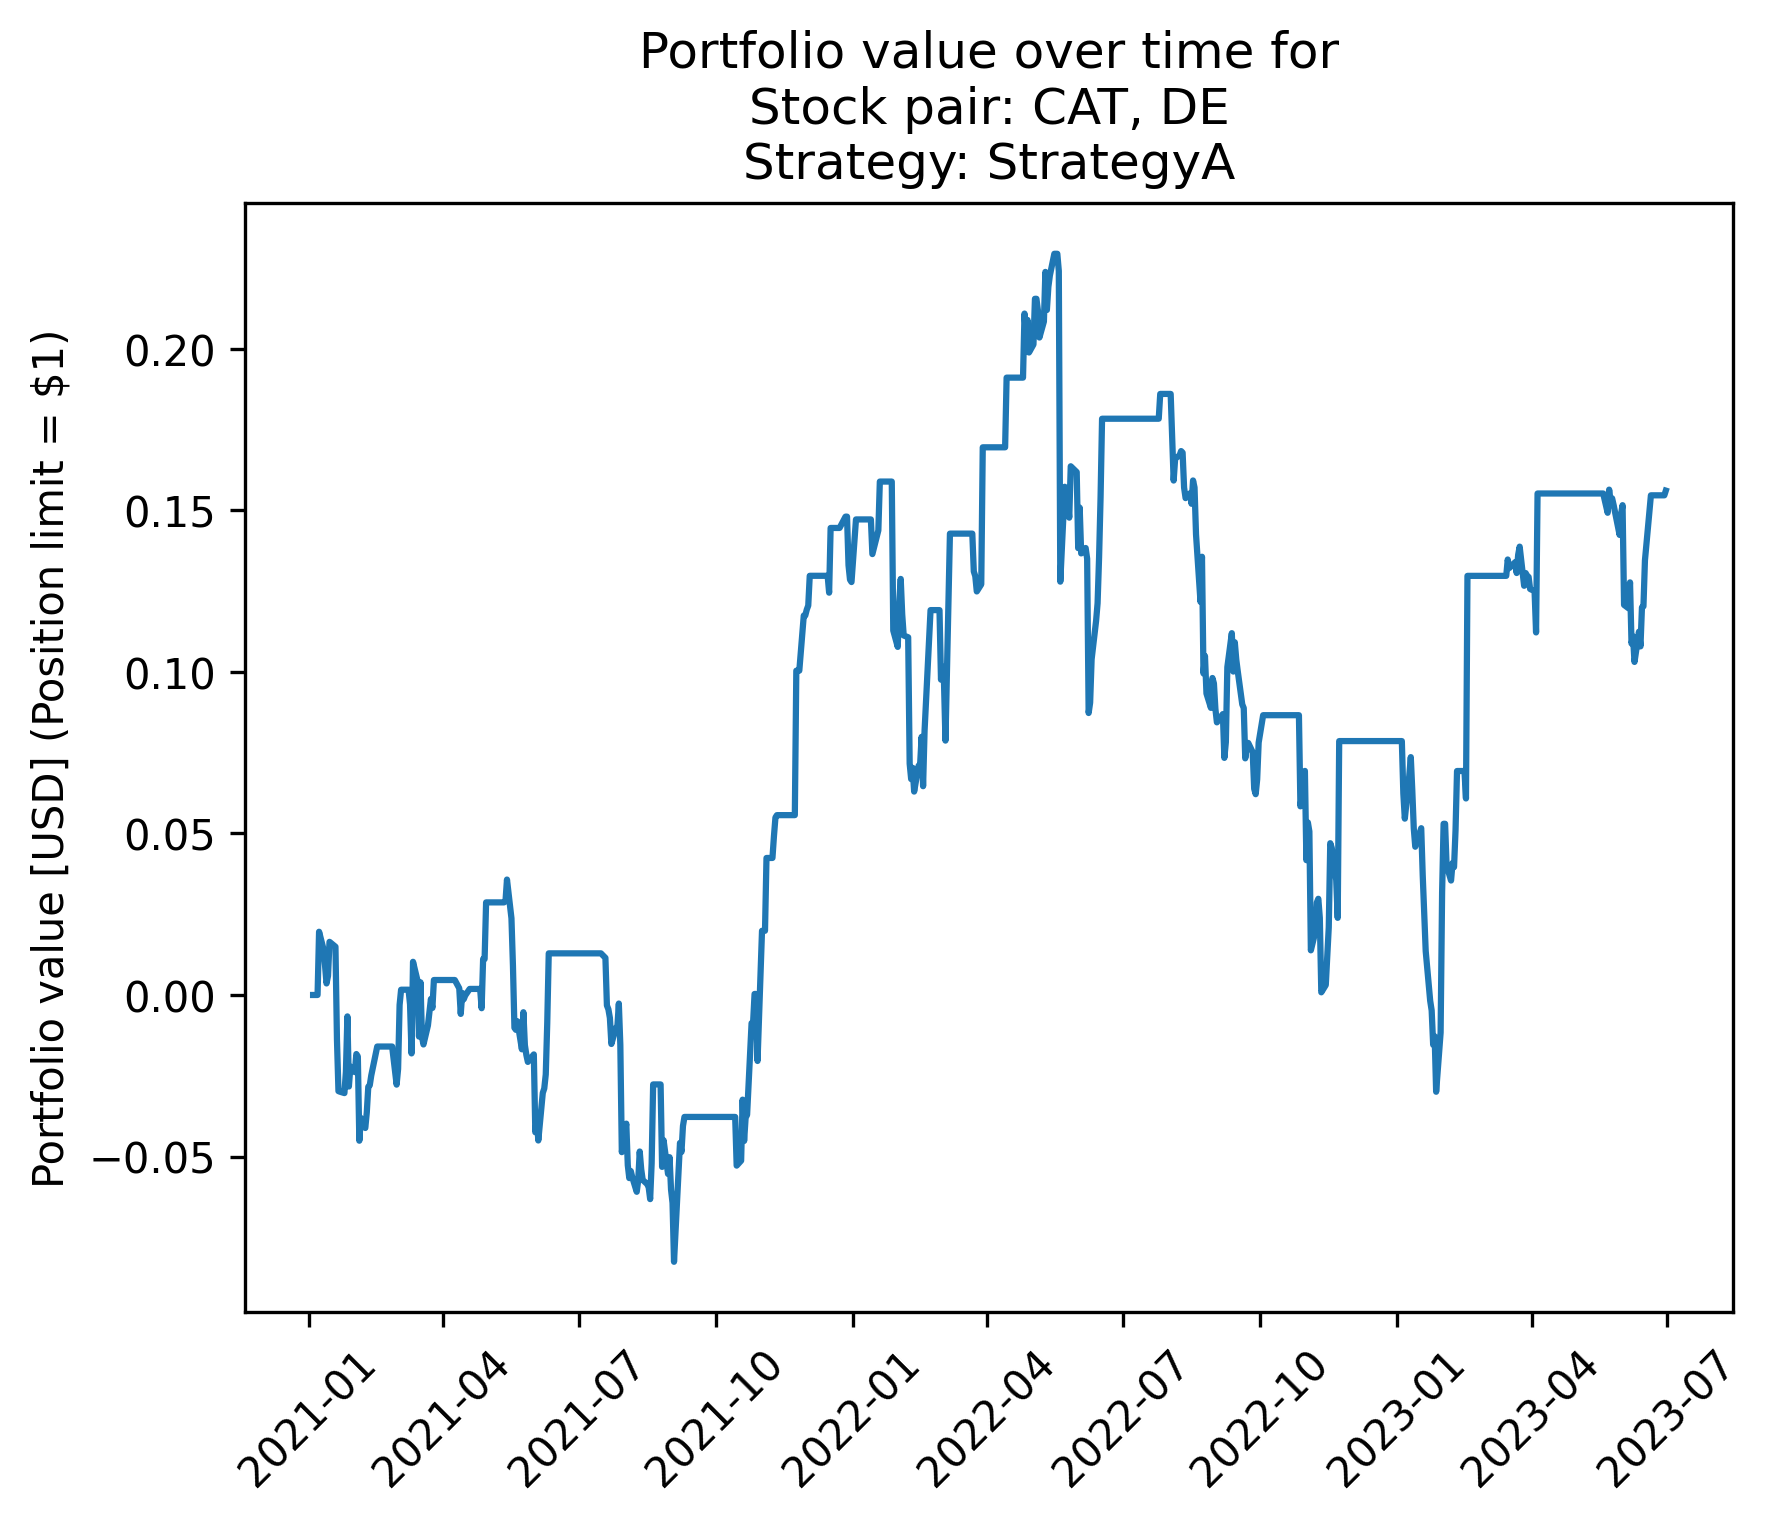
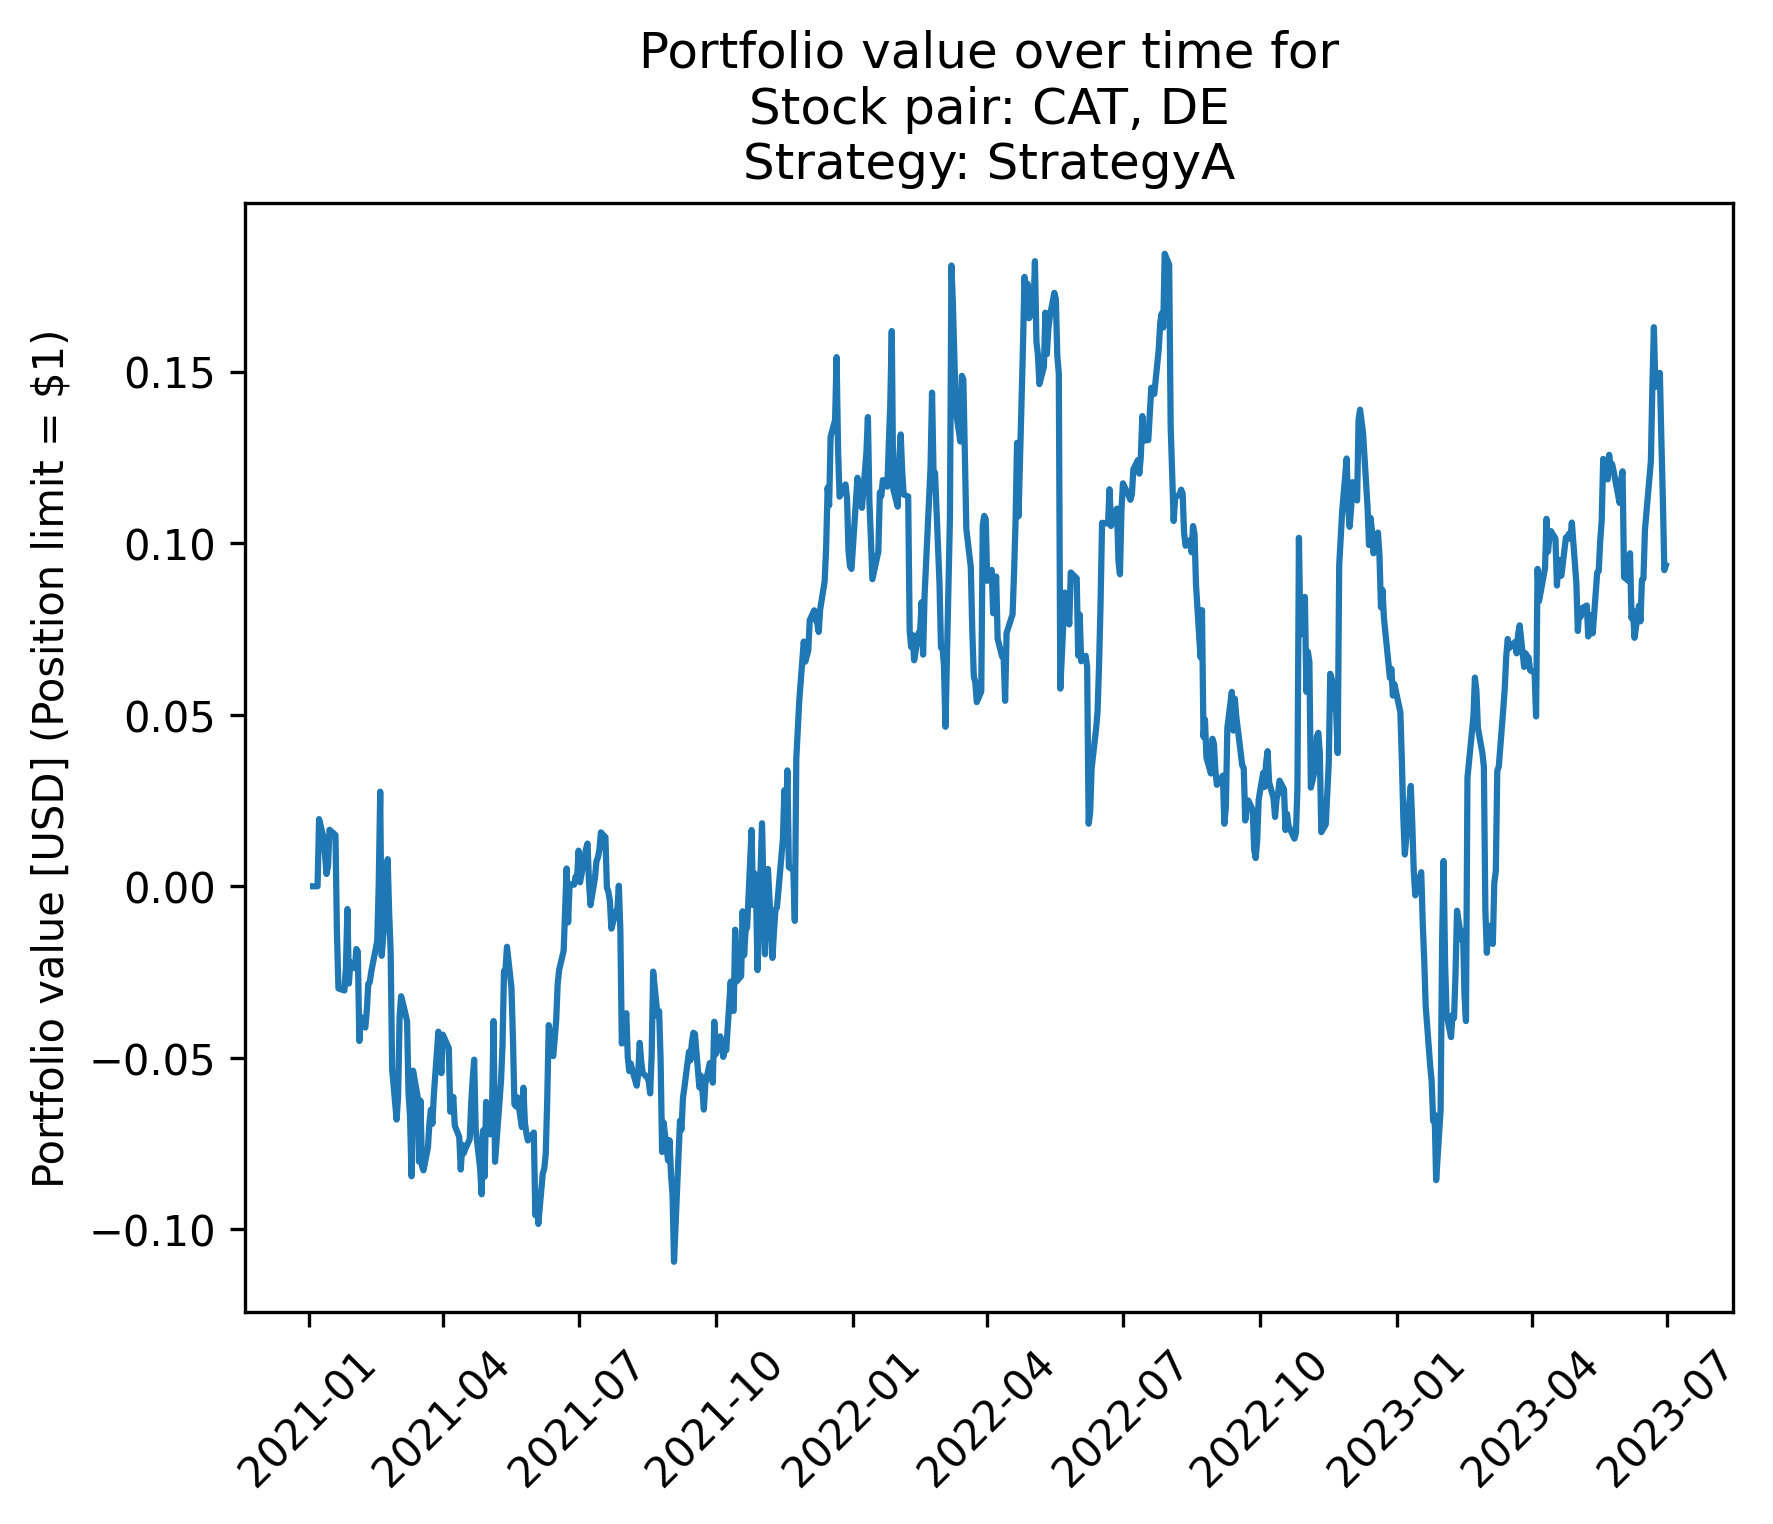
added_strategy_b_macd

diff --git a/tests/test_strategies.py b/tests/test_strategies.py
@@ -116,26 +116,68 @@ def test_strategy_b_initialization(mock_read_csv):
     assert strategy.fast_window_size == 12
     assert strategy.slow_window_size == 26
     assert strategy.signal_window_size == 9
-    max_window_size = np.max([strategy.fast_window_size, strategy.slow_window_size, strategy.signal_window_size])
+    max_window_size = np.max([strategy.fast_window_size,
+                              strategy.slow_window_size,
+                              strategy.signal_window_size])
     assert strategy.window_prices.equals(mock_data[['StockA', 'StockB']].tail(max_window_size))
 
 def test_calc_macd_signal():
+    """
+    This test checks that the calc_macd_signal function returns the correct output.
+    """
+
     # Arrange
     # Create a series of stock prices (ratios)
-    stock_a_prices = np.linspace(100, 200, 100)
-    stock_b_prices = np.linspace(200, 300, 100)
+    stock_a_prices = np.array([4, 3, 1, 2, 5, 1])
+    stock_b_prices = np.array([1, 1, 1, 1, 1, 1])
     ratio = pd.Series(stock_a_prices / stock_b_prices)
 
     # Define the window sizes directly in the test
-    fast_window_size = 12
-    slow_window_size = 26
-    signal_window_size = 9
+    fast_window_size = 2
+    slow_window_size = 4
+    signal_window_size = 2
+
+    # alpha = 2 / (window_size + 1)
+    # alpha_fast = 2 / = 2/3
+    # fast_ema[0] = ratio[0] = 4
+    # fast_ema[1] = (1 - alpha) * 4 + alpha * 3 =  10/3  = 3.3333333
+    # fast_ema[2] = (1 - alpha) * 10/3 + alpha * 1 = 16/9 = 1.7777777
+    # fast_ema[3] = (1 - alpha) * 16/9 + alpha * 2 = 52/27 = 1.9259259
+    # fast_ema[4] = (1 - alpha) * 52/27 + alpha * 5 = 322/81 = 3.9753086
+    # fast_ema[5] = (1 - alpha) * 322/81 + alpha * 1 = 484/243 = 1.9917695
+    # fast_ema = [4, 10/3, 16/9, 52/27, 322/81, 484/243]
+    # alpha_slow = 2 / 5
+    # slow_ema[0] = 4
+    # slow_ema[0] = (1 - alpha) * 4 + alpha * 3 = 18/5 = 3.6
+    # slow_ema[1] = (1 - alpha) * 18/5 + alpha * 1 = 64/25 = 2.56
+    # slow_ema[2] = (1 - alpha) * 64/25 + alpha * 2 = 292/125 = 2.336
+    # slow_ema[3] = (1 - alpha) * 292/125 + alpha * 5 = 2126/625 = 3.4016
+    # slow_ema[4] = (1 - alpha) * 2126/625 + alpha * 1 = 7628/3125 = 2.44096
+    # slow_ema = [4, 18/5, 64/25, 292/125, 2126/625, 7628/3125]
+    # macd = fast_ema - slow_ema
+    # macd = [0, -4/15, -176/225, -1384/3375, 29044/50625,-341104/759375]
+    #      = [0, -0.2666666, -0.7822222, -0.4103703, 0.5733333, -0.4491852]
+    # alpha_signal = 2 / 3
+    # signal[0] = macd[0] = 0
+    # signal[1] = (1 - alpha) * 0 + alpha * (-4/15) = -8/45 = -0.1777777
+    # signal[2] = (1 - alpha) * (-8/45) + alpha * (-176/225) = -392/675 = -0.5807407
+    # signal[3] = (1 - alpha) * (-392/675) + alpha * (-1384/3375) = -1576/3375 = -0.4669629
+    # signal[4] = (1 - alpha) * (-1576/3375) + alpha * (29044/50625) = 34448/151875 = 0.22681811
+    # signal[5] = (1 - alpha) * (34448/151875) + alpha * (-341104/759375) = -509968/2278125
+    #           = -0.2238543
+    # signal = np.array([0, -8/45, -392/675, -1576/3375, 34448/151875, -509968/2278125])
 
     # Act
-    macd, signal = strategies.StrategyB.calc_macd_signal(ratio, slow_window_size, fast_window_size, signal_window_size) #asdadasdasdhfhfghfgasdasdassssssssss
+    macd, signal = strategies.StrategyB.calc_macd_signal(ratio,
+                                                         slow_window_size,
+                                                         fast_window_size,
+                                                         signal_window_size)
 
     # Assert
     assert macd is not None
     assert signal is not None
     assert len(macd) == len(ratio)
     assert len(signal) == len(ratio)
+    # assert macd = [0, -4/15, -176/225, -1384/3375, 29044/50625,-341104/759375]
+    assert np.allclose(macd, [0, -4/15, -176/225, -1384/3375, 29044/50625,-341104/759375])
+    assert np.allclose(signal, [0, -8/45, -392/675, -1576/3375, 34448/151875, -509968/2278125])

diff --git a/pairs_trading_oaf/strategies.py b/pairs_trading_oaf/strategies.py
@@ -58,9 +58,9 @@ class BaseStrategy(ABC):
         - window_data: a pandas DataFrame containing the stock A and stock B prices as columns
         and the dates as the index.
         """
-        df_train = data.read_csv(self.pair_portfolio.training_data_str)
+        df_train = data.read_csv(self.pair_portfolio.training_data_str) # pylint: disable=no-member
         df_train = df_train.tail(window_size)
-        window_prices = df_train[list(self.pair_portfolio.stock_pair_labels)]
+        window_prices = df_train[list(self.pair_portfolio.stock_pair_labels)] # pylint: disable=no-member
 
         return window_prices
 
@@ -109,7 +109,7 @@ class StrategyA(BaseStrategy):
         elif z_score > self.z_threshold:
             return 'long B short A'
         else:
-            return "no position"
+            return self.pair_portfolio.position
 
 class StrategyB(BaseStrategy):
     """
@@ -134,19 +134,23 @@ class StrategyB(BaseStrategy):
         self.fast_window_size = fast_window_size
         self.slow_window_size = slow_window_size
         self.signal_window_size = signal_window_size
-        self.window_prices = self.calculate_initial_window(np.max([self.fast_window_size,
-                                                                   self.slow_window_size,
-                                                                   self.signal_window_size]))
-        
+        max_window_size = np.max([self.fast_window_size,
+                                  self.slow_window_size,
+                                  self.signal_window_size])
+        # Set the window size to be the maximum window size plus 50
+        # This is to ensure that we have enough data to calculate the MACD and signal line
+        window_size = max_window_size + 50
+        self.window_prices = self.calculate_initial_window(window_size)
+
     @staticmethod
     def calc_macd_signal(ratio, slow_window_size, fast_window_size, signal_window_size):
-        fast_ema = ratio.ewm(span=fast_window_size, adjust=False)
-        fast_ema = fast_ema.mean()
-        slow_ema = ratio.ewm(span=slow_window_size, adjust=False)
-        slow_ema = slow_ema.mean()
+        """
+        Calculate the MACD and signal line for a given stock pair ratio.
+        """
+        fast_ema = ratio.ewm(span=fast_window_size, adjust=False).mean()
+        slow_ema = ratio.ewm(span=slow_window_size, adjust=False).mean()
         macd = fast_ema - slow_ema
-        signal = macd.ewm(span=signal_window_size, adjust=False)
-        signal = signal.mean()
+        signal = macd.ewm(span=signal_window_size, adjust=False).mean()
         return macd, signal
 
     def calculate_new_position(self):
@@ -168,3 +172,16 @@ class StrategyB(BaseStrategy):
         self.window_prices = pd.concat([self.window_prices, new_data])
         self.window_prices = self.window_prices.iloc[1:]
         ratio = self.window_prices[stock_pair_labels[0]] / self.window_prices[stock_pair_labels[1]]
+        macd, signal = self.calc_macd_signal(ratio,
+                                             self.slow_window_size,
+                                             self.fast_window_size,
+                                             self.signal_window_size)
+        if macd.iloc[-1] > signal.iloc[-1] and macd.iloc[-2] < signal.iloc[-2]:
+            # MACD crossed above signal line so long stock A and short stock B
+            return 'long A short B'
+        elif macd.iloc[-1] < signal.iloc[-1] and macd.iloc[-2] > signal.iloc[-2]:
+            # MACD crossed below signal line so long stock B and short stock A
+            return 'long B short A'
+        else:
+            # Don't change the position if the MACD and signal line do not cross
+            return self.pair_portfolio.position

diff --git a/pairs_trading_oaf/plotting.py b/pairs_trading_oaf/plotting.py
@@ -5,7 +5,8 @@ Functions to plot trading data.
 import os
 import matplotlib.pyplot as plt
 
-def plot_portfolio_value_over_time(master_portfolio):
+def plot_portfolio_value_over_time(master_portfolio,
+                                   plot_cash=True):
     """
     Plots the profit and loss of the portfolio over time for each pair
     in the master portfolio over the entire trading period.
@@ -36,7 +37,22 @@ def plot_portfolio_value_over_time(master_portfolio):
         fname = os.path.join(plots_dir, 'portfolio_value_over_time_' +
                              f'{pair_portfolio.strategy.__class__.__name__}' + '_' +
                              stock_a_label + '_' + stock_b_label + '.png')
-        fig.savefig(fname, dpi=300, bbox_inches='tight')
+        
+        if plot_cash:
+        
+            fig, ax = plt.subplots()
+            ax.plot(pair_portfolio.dates_over_time, pair_portfolio.cash_over_time)
+            ax.set_ylabel('Cash [USD] (Position limit = $' +
+                        f'{int(pair_portfolio.position_limit):d})')
+            plt.xticks(rotation=45)
+            ax.set_title('Cash value over time for\n' +
+                        f'Stock pair: {stock_a_label}, {stock_b_label}\n' +
+                        f'Strategy: {pair_portfolio.strategy.__class__.__name__}')
+            fname = os.path.join(plots_dir, 'cash_value_over_time_' +
+                                f'{pair_portfolio.strategy.__class__.__name__}' + '_' +
+                                stock_a_label + '_' + stock_b_label + '.png')
+
+            fig.savefig(fname, dpi=300, bbox_inches='tight')
 
     fig, ax = plt.subplots()
 
@@ -48,3 +64,14 @@ def plot_portfolio_value_over_time(master_portfolio):
     ax.set_title('Average portfolio value over time')
     fname = os.path.join(plots_dir, 'average_portfolio_value_over_time.png')
     fig.savefig(fname, dpi=300, bbox_inches='tight')
+
+    if plot_cash:
+        fig, ax = plt.subplots()
+        ax.plot(master_portfolio.pair_portfolios[0].dates_over_time,
+                master_portfolio.average_cash_over_time())
+        ax.set_ylabel('Average cash [USD] (Position limit = $' +
+                    f'{int(master_portfolio.position_limit):d})')
+        plt.xticks(rotation=45)
+        ax.set_title('Average cash over time')
+        fname = os.path.join(plots_dir, 'average_cash_over_time.png')
+        fig.savefig(fname, dpi=300, bbox_inches='tight')

diff --git a/pairs_trading_oaf/portfolio.py b/pairs_trading_oaf/portfolio.py
@@ -41,6 +41,17 @@ class MasterPortfolio:
         for pair_portfolio in self.pair_portfolios:
             total_portfolio_value_over_time += np.array(pair_portfolio.portfolio_value_over_time)
         return total_portfolio_value_over_time / len(self.pair_portfolios)
+    
+    def average_cash_over_time(self):
+        """
+        Calculate the average cash over time
+        across all the pair portfolios.
+        """
+        total_cash_over_time = \
+            np.zeros(len(self.pair_portfolios[0].cash_over_time))
+        for pair_portfolio in self.pair_portfolios:
+            total_cash_over_time += np.array(pair_portfolio.cash_over_time)
+        return total_cash_over_time / len(self.pair_portfolios)
 
 class PairPortfolio(MasterPortfolio):
     """

diff --git a/pairs_trading_oaf/main.py b/pairs_trading_oaf/main.py
@@ -34,7 +34,7 @@ stock_pair_labels_list = [
     ("Caterpillar Inc. (NYSE:CAT)", "Deere & Company (NYSE:DE)"),
     ("Wells Fargo & Company (NYSE:WFC)", "Citigroup Inc. (NYSE:C)"),
 ]
-StrategyClass = strategies.StrategyA
+StrategyClass = strategies.StrategyB
 
 master_portfolio = portfolio.MasterPortfolio(POSITION_LIMIT,
                                              TRAINING_DATA_FNAME,
